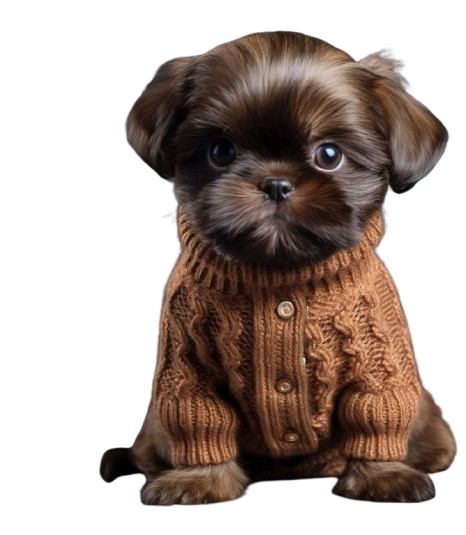
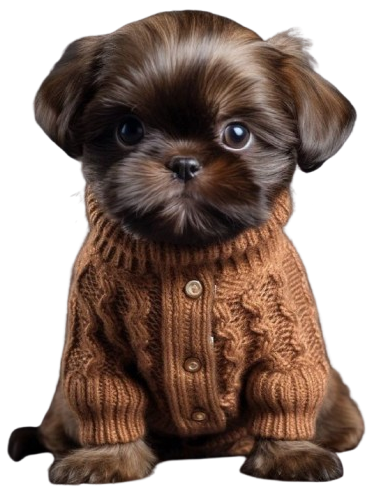
Add Misty.jpg image

diff --git a/css/aboutus1.css b/css/aboutus1.css
@@ -82,31 +82,51 @@ main {
 
 .about-section {
     display: flex;
+    justify-content: center;
     align-items: flex-start;
     padding: 3rem 4rem;
     max-width: 1400px;
     margin: 0 auto;
+    flex-wrap: wrap; /* Allows image and text to wrap nicely on smaller screens */
 }
 
 .about-image {
     flex: 0 0 30%;
-    margin-right: 3rem;
+    max-width: 400px;
+    margin-left: -50px; /* adjust this value as needed */
 }
 
 .about-image img {
     width: 100%;
     height: auto;
-    border-radius: 10px;
-    box-shadow: 0 4px 15px rgba(0, 0, 0, 0.1);
+    border-radius: 15px;
+    border: 4px solid #ffd9ec; /* light pink border */
+    box-shadow: 0 8px 20px rgba(255, 105, 180, 0.3), 0 0 20px rgba(255, 182, 193, 0.2); /* soft pink glow */
+    transform: translateX(-40px);
+    transition: transform 0.4s ease, box-shadow 0.4s ease;
+}
+
+/* Hover effect */
+.about-image img:hover {
+    transform: scale(1.05) translateX(-20px);
+    box-shadow: 0 12px 30px rgba(255, 105, 180, 0.5), 0 0 30px rgba(255, 182, 193, 0.3);
 }
 
 .about-text {
-    flex: 0 0 65%;
-    background-color: white;
-    color: #666;
-    border-radius: 10px;
-    padding: 2rem;
-    box-shadow: 0 4px 15px rgba(0, 0, 0, 0.1);
+    background: linear-gradient(to bottom right, #ffffff, #f9f1f9);
+    color: #4a4a4a;
+    border-radius: 15px;
+    padding: 2.5rem;
+    box-shadow: 0 8px 25px rgba(0, 0, 0, 0.1);
+    border: 1px solid #f0e6f7;
+    transition: transform 0.3s ease, box-shadow 0.3s ease;
+    max-width: 800px;
+    width: 100%;
+}
+
+.about-text:hover {
+    transform: translateY(-4px);
+    box-shadow: 0 12px 30px rgba(0, 0, 0, 0.15);
 }
 
 .about-title {
@@ -117,9 +137,26 @@ main {
 }
 
 .about-text h2 {
-    font-size: 50px;
-    color: #333;
-    margin: 1.5rem 0 1rem;
+    font-size: 2.5rem;
+    font-weight: 900;
+    text-transform: uppercase;
+    background: linear-gradient(90deg, #4b003b, #d147a3); /* Customize if needed */
+    -webkit-background-clip: text;
+    -webkit-text-fill-color: transparent;
+    text-align: center;
+    margin: 2rem 0 1rem;
+    position: relative;
+    text-shadow: 0 2px 4px rgba(0, 0, 0, 0.2);
+}
+
+.about-text h2::after {
+    content: "";
+    display: block;
+    width: 60px;
+    height: 4px;
+    background: linear-gradient(to right, #ff00cc, #3333ff);
+    margin: 0.5rem auto 0;
+    border-radius: 2px;
 }
 
 .about-text p {

diff --git a/html/aboutus1.html b/html/aboutus1.html
@@ -28,6 +28,7 @@
     <main>
         <section class="about-section">
             <div class="about-image">
+                <img src="../images/brown.png" alt="Cute Shih Tzu">
             </div>
             <div class="about-text">
                 <h2 class="about-title">ABOUT US</h2> 
@@ -66,7 +67,7 @@
                         <h2><br> Join Us in Revolutionizing Shih Tzu Care!</h2>
                         <p>At TZULIFE, we believe that every Shih Tzu deserves the best care possible. Whether you're a new pet owner or an experienced caregiver,
                         </br>our platform provides valuable insights that help keep your pup healthy and thriving.</p>
-                        <p>🐾 Your Shih Tzu's health is our priority. 🐾</p> <br><br><br><br>
+                        <p>🐾 Your Shih Tzu's health is our priority. 🐾</p> <br><br>
                     </div>
                 </div>
             </div>

diff --git a/html/home.html b/html/home.html
@@ -41,7 +41,7 @@
                     <a href="#">ABOUT US</a>
                     <ul class="dropdown-menu">
                       <li><a href="aboutus.html">Get to Know Us</a></li>
-                      <a href="#faq">Frequently Asked Questions</a>
+                     <li><a href="#faq">Frequently Asked Questions</a></li>
                     </ul>
                   </li>
 
@@ -128,7 +128,7 @@
         <img src="../images/Chulip.png" alt="Cute Shih Tzu 7">
         <img src="../images/Lokshi.jpg" alt="Behave Shih Tzu 8">
         <img src="../images/Kuro.jpg" alt="Cute Shih Tzu 9">
-        <img src="../images/" alt="Behave Shih Tzu 10">
+        <img src="../images/Misty.jpg" alt="Behave Shih Tzu 10">
     </div>
 </section>
 

diff --git a/html/consultations.html b/html/consultations.html
@@ -28,7 +28,7 @@
     </header>
 
     <section class="consultation-section">
-        <h1>CONSULTATION</h1>
+        <h1>CONSULTATIONS</h1>
         <div class="consultation-options">
             <button class="option" onclick="location.href='Weight.html'">
                 <img src="../images/Weight.png" alt="Weight">
